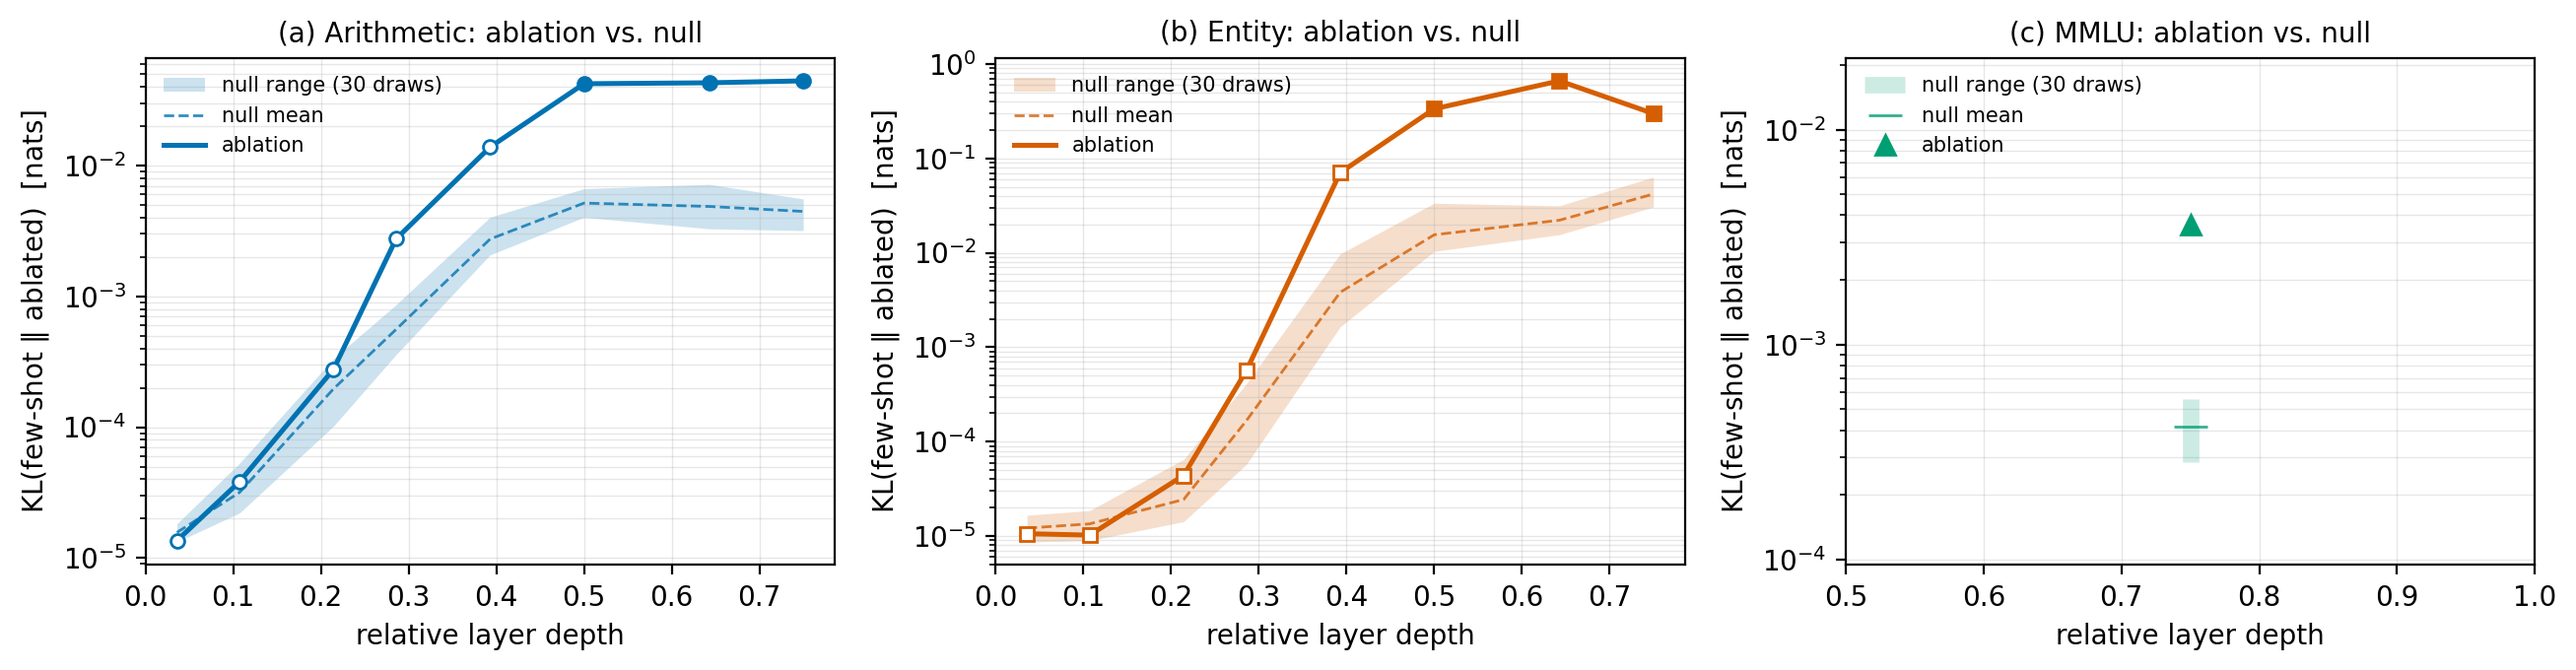
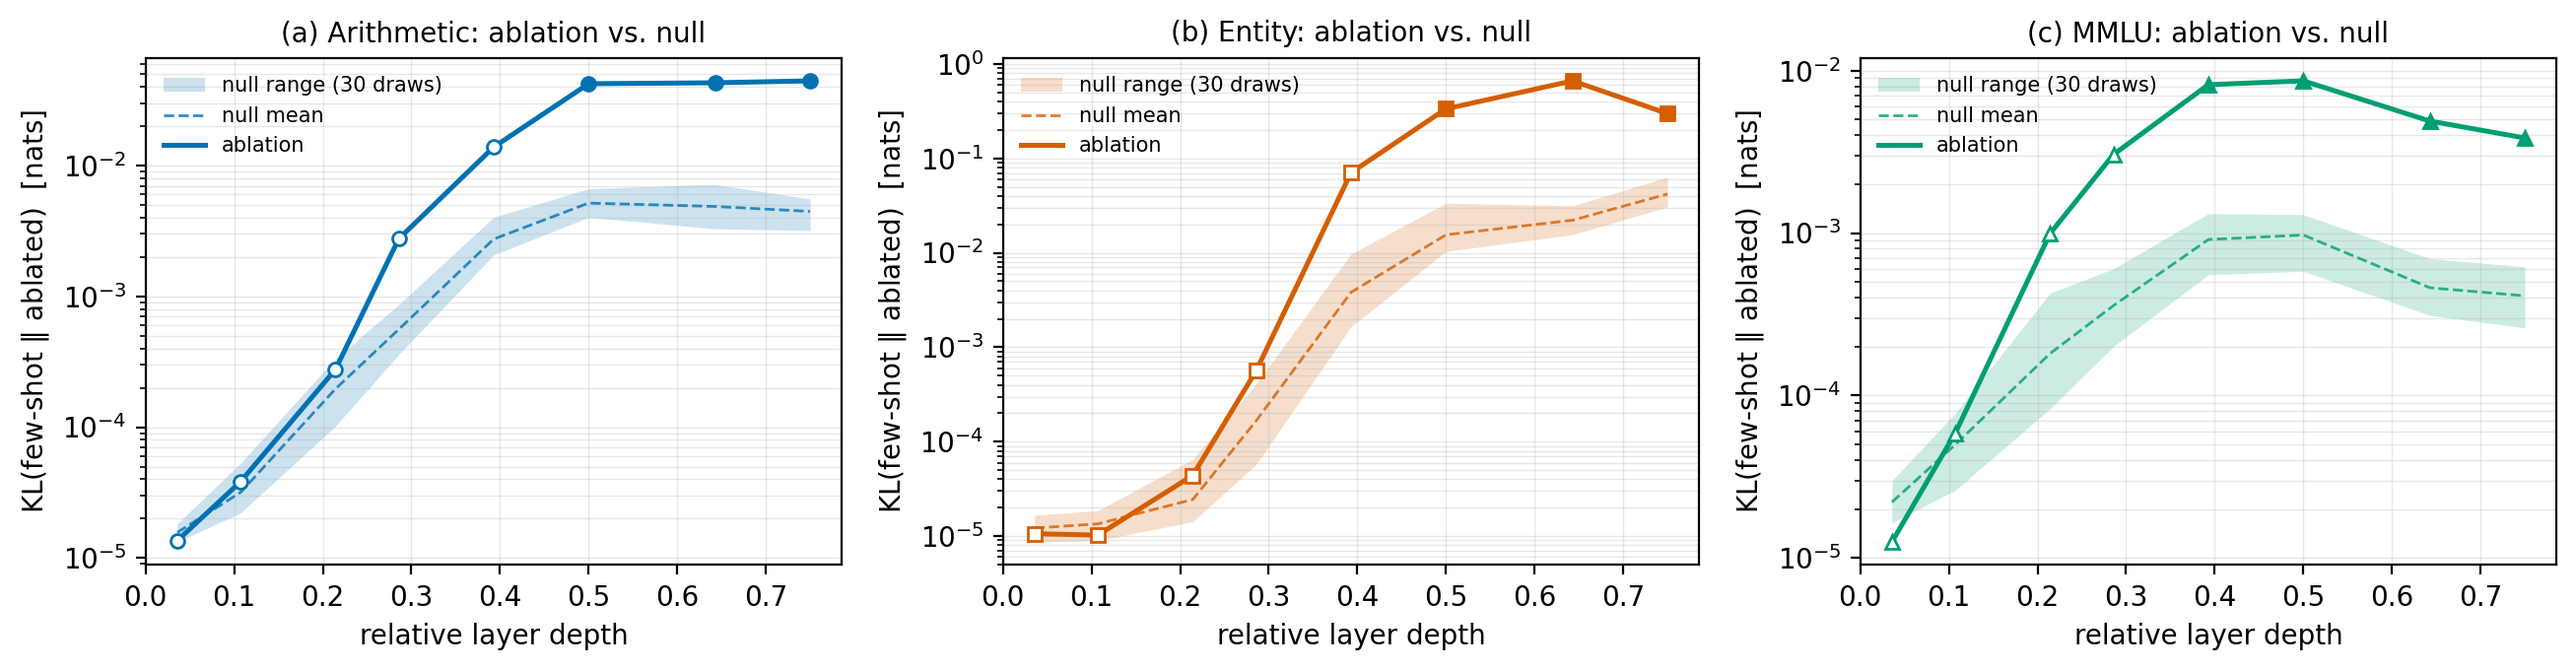
Update MMLU ablation writeup for 8-layer null
MMLU null now spans all 8 layers: README numbers (0.0039 vs 0.0004, 6.2x),
drop the layer-21-only notes, and regenerate the ablation figure.

diff --git a/experiments/task_vector_injection/plot_residual_ablation_centroid.py b/experiments/task_vector_injection/plot_residual_ablation_centroid.py
@@ -26,7 +26,6 @@ GROUPS = [("arithmetic", "Arithmetic", "#0072B2", "o"),
           ("entity",     "Entity",     "#D55E00", "s"),
           ("mmlu",       "MMLU",       "#009E73", "^")]
 NULL_GROUPS = ["arithmetic", "entity", "mmlu"]   # groups with a causal null run
-# MMLU's null was run at layer 21 only, so it plots as a single point, not a curve.
 
 
 def main():
@@ -55,7 +54,7 @@ def main():
         allcell = [(null[:, k, :] < test[:, k, None]).all() for k in range(len(depth))]
 
         if len(depth) == 1:
-            # Single swept layer (MMLU): a band/curve is undefined, so draw the null's
+            # Single swept layer (e.g. a --layers 21 run): a band/curve is undefined, so draw the null's
             # full support as a vertical range at that depth and the ablation as a point.
             d0 = depth[0]
             ax2.vlines(d0, lo[0], hi[0], color=color, lw=6, alpha=0.20,

diff --git a/README.md b/README.md
@@ -154,13 +154,13 @@ Statistical resolvability tells us whether the residual is distinguishable from 
 **Findings, at three-quarter depth (layer 21 of Llama-3.2-3B):**
 * The relative residual magnitude ρ (which is ≈ 0.003–0.012 at the shallowest probed layer) grows to **0.162 (Arithmetic), 0.242 (Entity), 0.067 (MMLU)**, while κ stays within [0.85, 1.09] throughout — the dominant linear structure is preserved even as the orthogonal component grows.
 * **The true ablation beats all 30 null draws in all 6 mixed ratios in all 3 task groups** (smallest one-sided *p* = 1/31 ≈ 0.032 per ratio).
-* Pooled KL divergence far exceeds the null mean: **Arithmetic 0.044 nats vs. 0.005 (8.0× the largest null draw), Entity 0.297 vs. 0.042 (4.7×), MMLU 0.0036 vs. 0.0004 (6.5×)**.
-* **Negative control:** at the shallowest probed layer, the ablation's percentile within the null distribution scatters from the 3rd to the 87th percentile across ratios — indistinguishable from random — confirming the deep-layer effect is a genuine depth-dependent phenomenon, not a patching artifact.
-* **MMLU dissociation:** MMLU has the smallest ρ and the κ closest to 1, and its residual sits at or below the split-half noise floor (statistically *unresolvable*, per Result 2) — yet its ablation still clears the null in all 6 ratios by 6.5×. Magnitude, statistical resolvability, and causal importance are three separate properties: a direction can be too small to distinguish from sampling noise and still be the direction the model's output actually depends on.
+* Pooled KL divergence far exceeds the null mean: **Arithmetic 0.044 nats vs. 0.005 (8.0× the largest null draw), Entity 0.297 vs. 0.042 (4.7×), MMLU 0.0039 vs. 0.0004 (6.2×)**.
+* **Negative control:** at the shallowest probed layer, the ablation's percentile within the null distribution scatters from the 0th to the 87th percentile across ratios — indistinguishable from random — confirming the deep-layer effect is a genuine depth-dependent phenomenon, not a patching artifact.
+* **MMLU dissociation:** MMLU has the smallest ρ and the κ closest to 1, and its residual sits at or below the split-half noise floor (statistically *unresolvable*, per Result 2) — yet its ablation still clears the null in all 6 ratios by 6.2×. Magnitude, statistical resolvability, and causal importance are three separate properties: a direction can be too small to distinguish from sampling noise and still be the direction the model's output actually depends on.
 
 ### Ablation vs. null, across depth
 
-Solid = true ablation KL, dashed = null mean, shaded band = full range of the 30 null draws, filled/hollow markers indicate significance; log scale. MMLU is evaluated only at layer 21 due to compute cost.
+Solid = true ablation KL, dashed = null mean, shaded band = full range of the 30 null draws, filled/hollow markers indicate significance; log scale.
 
 ![residual ablation vs null, by depth](results/residual_ablation_centroid_Llama-3B.png)
 
